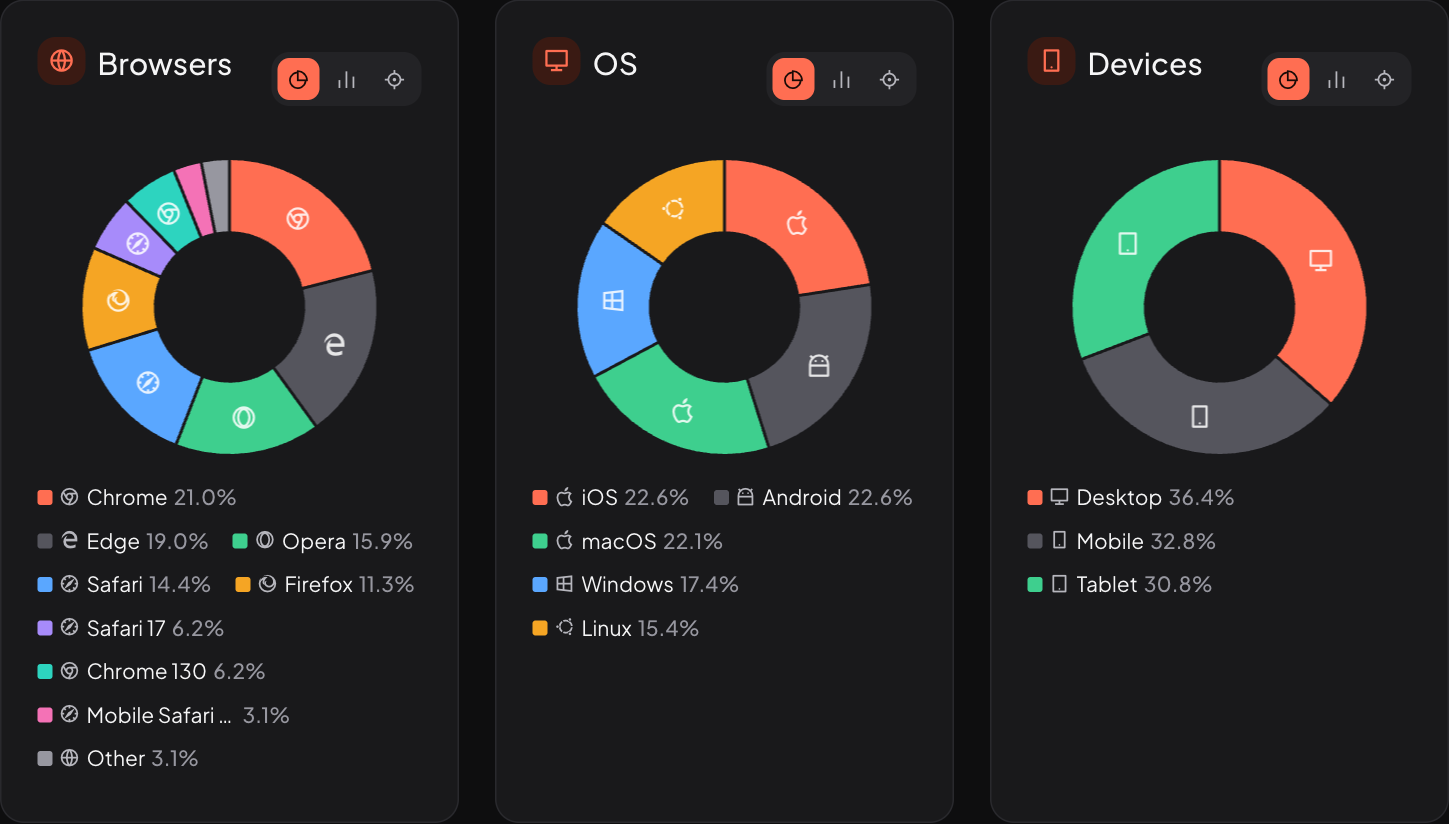
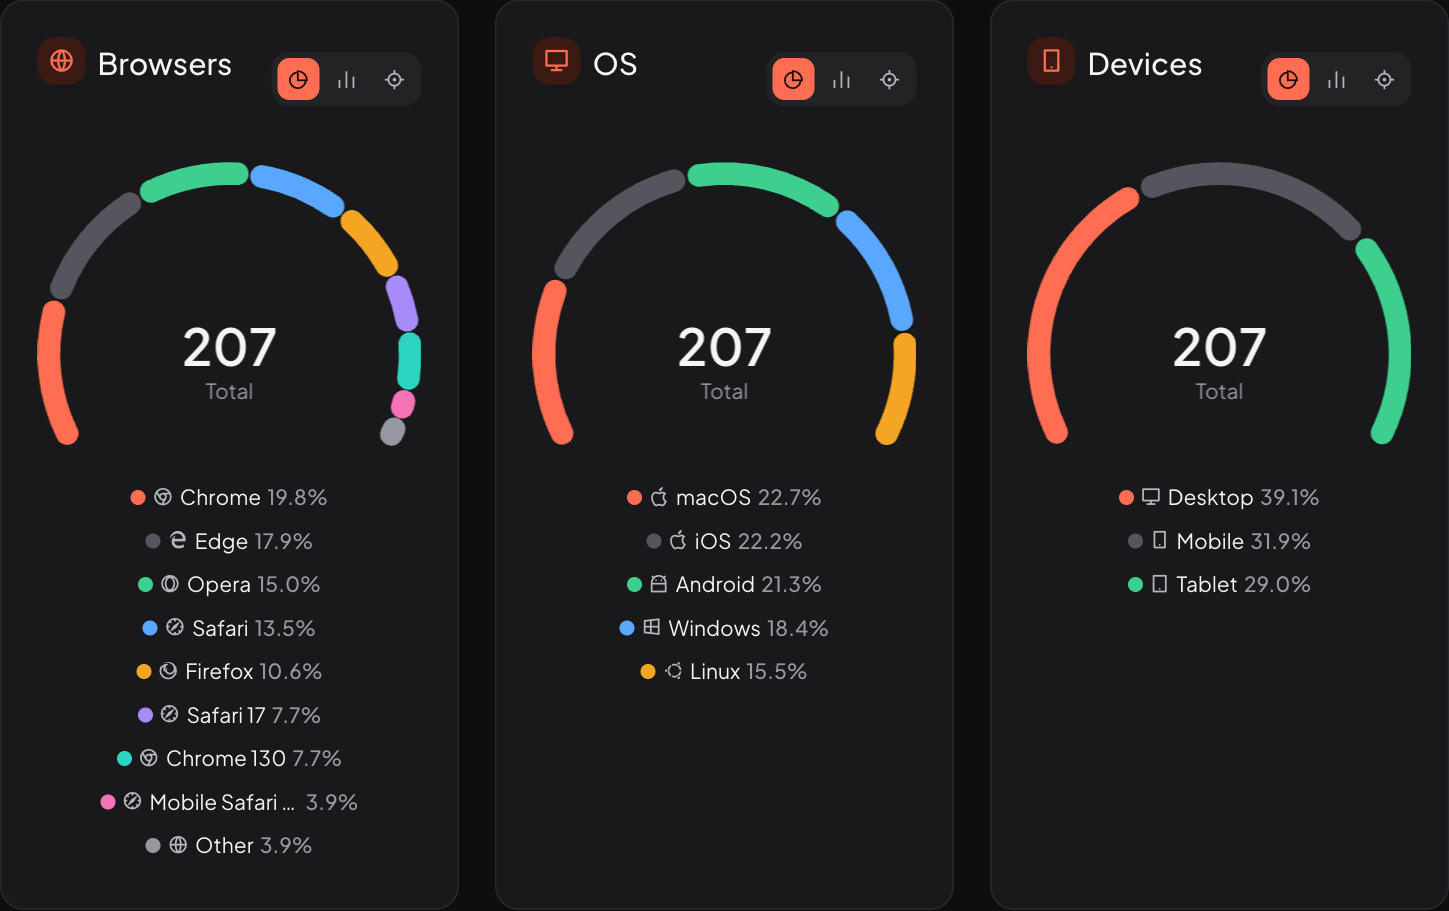
Show browsers, OS and devices as gauge charts
The shares are rounded segments of an open arc with the total in its
opening and a centred legend. Replaces the doughnuts and the icons drawn
inside their slices; the bar and radar views are unchanged. Refreshes the
landing page's charts screenshot.

Claude-Session: https://claude.ai/code/session_01GuupkTZhZNqQKFXJpTZdVo

diff --git a/src/main/resources/static/js/charts.js b/src/main/resources/static/js/charts.js
@@ -609,14 +609,15 @@ const ChartManager = {
   },
 
   /**
-   * Create doughnut chart with custom HTML icon legend
+   * Create a gauge: the shares as segments of an open arc, the total in its opening, and an HTML legend
+   * with each item's icon and percentage
    * @param {string} id - Canvas element ID
    * @param {Array} items - Array of {label, value} objects
    * @param {string} iconType - Icon category for legend: 'browser', 'os', 'device'
    * @param {Object} options - Additional options
    * @returns {Chart} Chart instance
    */
-  createIconDoughnutChart(id, items, iconType, options = {}) {
+  createGaugeChart(id, items, iconType, options = {}) {
     const colors = this.getColors();
     const labels = items.map(item => item.label);
     const values = items.map(item => item.value);
@@ -626,46 +627,26 @@ const ChartManager = {
       (_, index) => colors.chart[index % colors.chart.length]
     );
 
-    // Resolve Remix Icon class → Unicode character for each slice
-    const iconChars = labels.map(label => {
-      const iconClass = Utils.icons[iconType] ? Utils.icons[iconType](label) : '';
-      if (!iconClass) return '';
-      return this._getRemixIconChar(iconClass);
-    });
-
-    // Plugin to draw icons on each doughnut slice
-    const sliceIconPlugin = {
-      id: 'sliceIcons',
+    // The total sits in the opening of the arc
+    const centre = {
+      id: 'gaugeCentre',
       afterDraw(chart) {
+        const arc = chart.getDatasetMeta(0).data[0];
+        if (!arc) return;
         const { ctx } = chart;
-        const meta = chart.getDatasetMeta(0);
-        if (!meta || !meta.data) return;
-
-        meta.data.forEach((arc, i) => {
-          const char = iconChars[i];
-          if (!char) return;
-          // Only draw on slices large enough (> 5% of total)
-          const pct = values[i] / total;
-          if (pct < 0.05) return;
-
-          const { startAngle, endAngle, innerRadius, outerRadius } = arc.getProps(
-            ['startAngle', 'endAngle', 'innerRadius', 'outerRadius'], true
-          );
-          const midAngle = (startAngle + endAngle) / 2;
-          const midRadius = (innerRadius + outerRadius) / 2;
-          const x = arc.x + Math.cos(midAngle) * midRadius;
-          const y = arc.y + Math.sin(midAngle) * midRadius;
-
-          const fontSize = Math.max(12, Math.min(18, (outerRadius - innerRadius) * 0.5));
-          ctx.save();
-          ctx.font = `${fontSize}px remixicon`;
-          ctx.fillStyle = Utils.token('--chart-segment-icon');
-          ctx.textAlign = 'center';
-          ctx.textBaseline = 'middle';
-          ctx.fillText(char, x, y);
-          ctx.restore();
-        });
-      }
+        const family = Utils.token('--font-family-base');
+        const size = Math.max(20, Math.min(34, arc.outerRadius * 0.34));
+        ctx.save();
+        ctx.textAlign = 'center';
+        ctx.textBaseline = 'middle';
+        ctx.fillStyle = Utils.token('--color-text-primary');
+        ctx.font = `600 ${size}px ${family}`;
+        ctx.fillText(Utils.format.number(total), arc.x, arc.y - size * 0.1);
+        ctx.fillStyle = Utils.token('--color-text-muted');
+        ctx.font = `400 ${Math.round(size * 0.42)}px ${family}`;
+        ctx.fillText('Total', arc.x, arc.y + size * 0.75);
+        ctx.restore();
+      },
     };
 
     const chart = this.create(
@@ -676,11 +657,16 @@ const ChartManager = {
         datasets: [{
           data: values,
           backgroundColor: backgroundColors,
-          borderWidth: 2,
-          borderColor: colors.bgSecondary,
+          borderWidth: 0,
+          borderRadius: 999,
+          spacing: 4,
         }],
       },
       {
+        // An open arc: 240 degrees, starting at the lower left
+        rotation: -120,
+        circumference: 240,
+        cutout: '88%',
         plugins: {
           legend: { display: false },
           tooltip: {
@@ -696,7 +682,7 @@ const ChartManager = {
         },
         ...options,
       },
-      [sliceIconPlugin]
+      [centre]
     );
 
     // Build custom HTML legend with icons — placed outside the chart container
@@ -1003,25 +989,6 @@ const ChartManager = {
     return item && typeof item === 'object' && !Array.isArray(item);
   },
 
-  /**
-   * Resolve a Remix Icon CSS class to its Unicode character.
-   * Uses a temporary DOM element to read the ::before content.
-   * Results are cached for performance.
-   */
-  _iconCharCache: {},
-  _getRemixIconChar(iconClass) {
-    if (this._iconCharCache[iconClass]) return this._iconCharCache[iconClass];
-    const el = document.createElement('i');
-    el.className = iconClass;
-    el.style.cssText = 'position:absolute;left:-9999px;top:-9999px;visibility:hidden';
-    document.body.appendChild(el);
-    const content = getComputedStyle(el, '::before').content;
-    document.body.removeChild(el);
-    // content is like '"\\ea12"' — strip surrounding quotes
-    const char = content && content !== 'none' ? content.replace(/"/g, '') : '';
-    this._iconCharCache[iconClass] = char;
-    return char;
-  },
 };
 
 // Listen for theme changes and update all charts

diff --git a/landing/index.html b/landing/index.html
@@ -224,8 +224,8 @@
         </ul>
       </div>
       <div class="landing-shot landing-feature-visual">
-        <img class="landing-shot__img landing-shot__img--light" src="assets/screens/charts-light.png" alt="Browsers, operating systems and devices as doughnut charts" width="1449" height="824" loading="lazy">
-        <img class="landing-shot__img landing-shot__img--dark" src="assets/screens/charts-dark.png" alt="Browsers, operating systems and devices as doughnut charts" width="1449" height="824" loading="lazy">
+        <img class="landing-shot__img landing-shot__img--light" src="assets/screens/charts-light.png" alt="Browsers, operating systems and devices as gauge charts" width="1449" height="911" loading="lazy">
+        <img class="landing-shot__img landing-shot__img--dark" src="assets/screens/charts-dark.png" alt="Browsers, operating systems and devices as gauge charts" width="1449" height="911" loading="lazy">
       </div>
     </div>
 

diff --git a/src/main/resources/static/css/components.css b/src/main/resources/static/css/components.css
@@ -2983,6 +2983,10 @@ tbody tr {
   margin-bottom: var(--spacing-sm);
 }
 
+/* Gauge legend: centred under the arc, round colour dots */
+.icon-legend { justify-content: center; gap: var(--spacing-sm) var(--spacing-lg); }
+.icon-legend__color { border-radius: var(--radius-circle); }
+
 /* ============================================
    TOP BAR
    The project title on the left; on the right a row of controls of one height: pills for the

diff --git a/src/main/resources/static/css/variables.css b/src/main/resources/static/css/variables.css
@@ -266,7 +266,6 @@
   /* Chart furniture drawn on canvas (read by charts.js) */
   --chart-tooltip-bg: rgba(21, 21, 23, 0.94);
   --chart-tooltip-border: rgba(255, 255, 255, 0.1);
-  --chart-segment-icon: rgba(255, 255, 255, 0.85);
   --color-bar: #cfcfd6;                 /* an ordinary bar */
   --color-bar-highlight: var(--color-primary);  /* the leading bar */
   --heatmap-cell-border: rgba(0, 0, 0, 0.06);

diff --git a/src/main/resources/static/js/admin.js b/src/main/resources/static/js/admin.js
@@ -1568,7 +1568,7 @@ const Dashboard = {
       ChartManager.createRadarChart(chartId, items);
     } else {
       container.classList.remove('chart-card__container--radar');
-      ChartManager.createIconDoughnutChart(chartId, items, iconType);
+      ChartManager.createGaugeChart(chartId, items, iconType);
     }
   },
 

diff --git a/_docs/CHANGELOG.md b/_docs/CHANGELOG.md
@@ -9,6 +9,9 @@ and this project adheres to [Semantic Versioning](https://semver.org/spec/v2.0.0
 
 ### Changed
 
+- **Browsers, operating systems and devices are gauges**: the shares as rounded segments of an open arc, the
+  total in its opening, and a centred legend with each item's icon and percentage. They replace the doughnuts;
+  the bar and radar views of those cards are unchanged.
 - **A tidier top bar.** Raw events and the time range are pills, the theme switch and Settings are round icon
   buttons of the same height (the theme switch shows the current theme's icon instead of a sliding knob), and
   the date range and filter sit under it as a plain row instead of a boxed bar. On a phone the controls wrap
